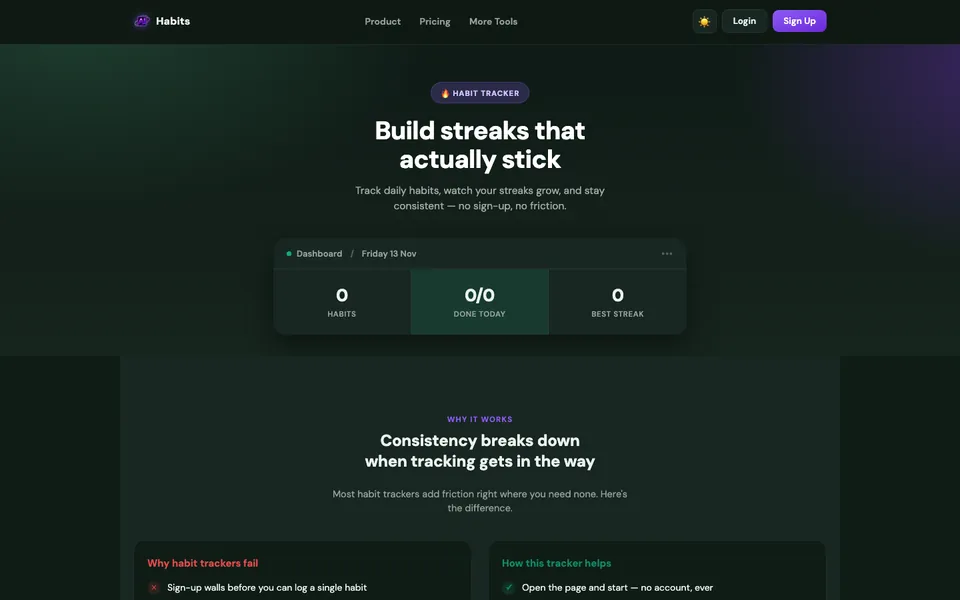
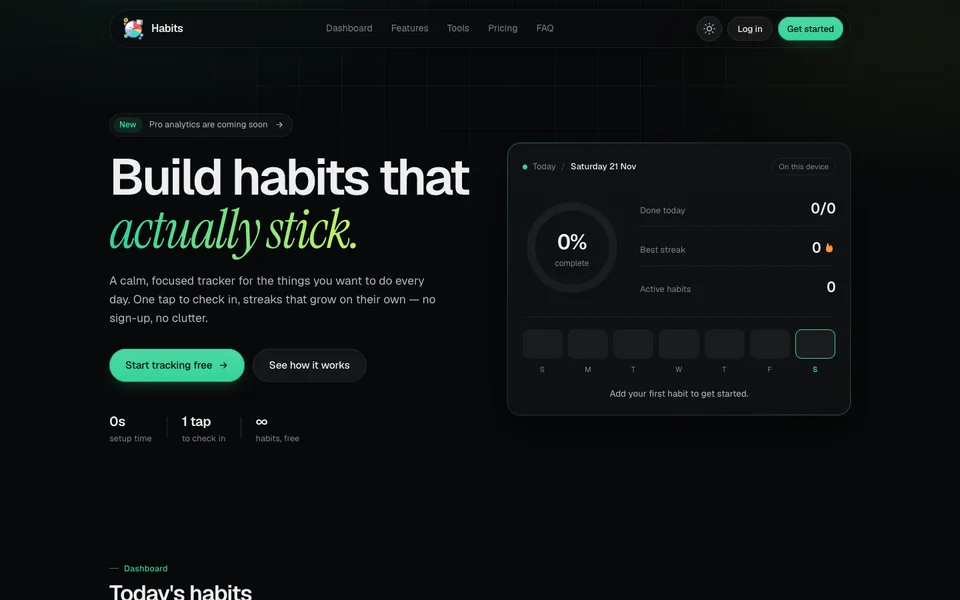
Always open dark; bolder light-mode text; add Habits to SaaS

diff --git a/index.html b/index.html
@@ -24,14 +24,13 @@
 <link rel="icon" href="favicon-32.png" sizes="32x32" type="image/png">
 <link rel="apple-touch-icon" href="apple-touch-icon.png">
 <script type="application/ld+json">{"@context":"https://schema.org","@type":"Person","name":"Md. Shahriar Nafiz Evan","alternateName":"Evan","url":"https://shahriarevan.com/","image":"https://shahriarevan.com/media/profile_card.jpg","jobTitle":"Full-Stack Developer","alumniOf":{"@type":"CollegeOrUniversity","name":"INTI International University"},"knowsAbout":["Full-stack web development","Next.js","Node.js","React","Firebase","MongoDB","OpenAI API","SaaS","E-commerce"],"sameAs":["https://www.linkedin.com/in/tech-evan-b374382b6/"]}</script>
-<script>try{if(localStorage.getItem("mode")=="light")document.documentElement.dataset.mode="light"}catch(e){}</script>
 <link rel="preconnect" href="https://fonts.googleapis.com"><link rel="preconnect" href="https://fonts.gstatic.com" crossorigin>
 <link href="https://fonts.googleapis.com/css2?family=Archivo:wdth,wght@62..125,400..900&family=JetBrains+Mono:wght@400;500&family=Manrope:wght@400;500;600;700&display=swap" rel="stylesheet">
 <link rel="stylesheet" href="https://cdnjs.cloudflare.com/ajax/libs/font-awesome/6.5.0/css/all.min.css">
 <style>
 :root{--bg:#060608;--tx:#eeebe6;--mu:#97919d;--dim:#5f5a66;--ac:#ef4444;--ac2:#a78bfa;--ok:#3ddc84;--ln:rgba(255,255,255,.09);--ln2:rgba(255,255,255,.18);--card:rgba(17,15,21,.66);
  --disp:"Archivo",system-ui,sans-serif;--mono:"JetBrains Mono",ui-monospace,monospace;--ease:cubic-bezier(.2,.75,.2,1);--io:cubic-bezier(.77,0,.18,1)}
-[data-mode=light]{--bg:#f3f1ed;--tx:#141218;--mu:#5b5662;--dim:#8b8691;--ln:rgba(20,18,24,.1);--ln2:rgba(20,18,24,.2);--card:rgba(255,255,255,.74)}
+[data-mode=light]{--bg:#f3f1ed;--tx:#0d0c10;--mu:#1f1c24;--dim:#3d3944;--ln:rgba(20,18,24,.1);--ln2:rgba(20,18,24,.2);--card:rgba(255,255,255,.74)}
 /* hero, top nav and the photo badge always sit on the dark film */
 #pre,#home,nav:not(.sc),.pc .bdg{--bg:#060608;--tx:#eeebe6;--mu:#b9b3be;--dim:#8f8a94;--ln:rgba(255,255,255,.1);--ln2:rgba(255,255,255,.22);color:var(--tx)}
 [data-mode=light] nav:not(.sc) .pill{background:rgba(255,255,255,.03)}
@@ -68,7 +67,8 @@ body:after{content:"";position:fixed;inset:-50%;z-index:70;pointer-events:none;o
 [data-mode=light] body:after{opacity:.045}
 [data-mode=light] nav.sc{background:rgba(243,241,237,.72)}
 [data-mode=light] #menu{background:rgba(243,241,237,.97)}
-[data-mode=light] h2 em{-webkit-text-stroke-color:rgba(20,18,24,.7)}
+[data-mode=light] h2 em{-webkit-text-stroke:2px #0d0c10}
+[data-mode=light] section p,[data-mode=light] section li,[data-mode=light] .sub,[data-mode=light] .lbl,[data-mode=light] .chip,[data-mode=light] .tags span{font-weight:600}
 [data-mode=light] .giant{-webkit-text-stroke-color:rgba(20,18,24,.14)}
 [data-mode=light] .name{background-image:linear-gradient(180deg,#141218 30%,#bdb8c2)}
 [data-mode=light] .card:before{background:radial-gradient(420px circle at var(--mx,50%) var(--my,50%),rgba(20,18,24,.05),transparent 60%)}
@@ -341,7 +341,7 @@ a:focus-visible,button:focus-visible,input:focus-visible,textarea:focus-visible{
   </div>
   <div class="h-bot fade" style="--d:1100ms">
    <div class="scr mono"><i></i>Scroll to scrub timeline<span id="fl" aria-live="polite"><i><b></b></i><span id="flt">Loading film 0%</span></span></div>
-   <div class="h-stats mono"><div><b>19+</b>Projects</div><div><b>6+</b>SaaS products</div><div><b>4+</b>Years coding</div></div>
+   <div class="h-stats mono"><div><b>19+</b>Projects</div><div><b>7+</b>SaaS products</div><div><b>4+</b>Years coding</div></div>
   </div>
  </div>
 </section>
@@ -366,7 +366,7 @@ a:focus-visible,button:focus-visible,input:focus-visible,textarea:focus-visible{
   </div>
   <div class="cnt rv" style="--d:300ms">
    <div><b data-n="19">0</b><b><i>+</i></b><span class="mono">Projects built</span></div>
-   <div><b data-n="6">0</b><b><i>+</i></b><span class="mono">SaaS products</span></div>
+   <div><b data-n="7">0</b><b><i>+</i></b><span class="mono">SaaS products</span></div>
    <div><b data-n="4">0</b><b><i>+</i></b><span class="mono">Years coding</span></div>
   </div>
   <div class="now rv" style="--d:200ms"><div class="now-h mono"><span><i class="dot"></i>Now</span><span style="color:var(--dim)">Updated Nov 2026</span></div>
@@ -449,9 +449,9 @@ C("Utility","list-check","To-Do App","Elegant task management application with l
 C("Tool","calculator","Calculator","Modern calculator with advanced operations, memory functions, and keyboard support, with a clean, intuitive interface and smooth animations.",["HTML","CSS","JS"],0,[L("Live Demo","https://shahriar-evan.github.io/Calculator-App/",1,0,1),L("Code")])],
 saas:[C("SaaS","pen-nib","WritexNova","AI writing platform with Humanizer, AI Detector, Paraphraser, Grammar Checker, Summarizer, Article Rewriter, AI Translator, Citation Generator and PDF Chat, with multi-model support.",["Node.js","Firebase","OpenAI","Lemon Squeezy"],["check-circle|Live product","shield-halved|AI Humanizer","toolbox|10+ AI tools"],[L("Visit","https://writexnova.com",1,0,1),L("Case Study","writexnova-casestudy.html",0),L("Code")]),
 C("SaaS","wand-magic-sparkles","Promptly","The complete AI workspace: write, design and research with one prompt. Chat with GPT-5, Claude Sonnet 4.5 and Gemini 2.5, generate images with Nano Banana, and turn one line into blog posts, research briefs and pitch decks.",["Next.js","MongoDB","OpenAI","Lemon Squeezy"],["check-circle|Live product","layer-group|Multi-model chat","image|AI images"],[L("Visit","https://aixnova.vercel.app",1,0,1),L("Case Study","aixnova-casestudy.html",0),L("Code")]),
-C("SaaS","tv","LiveSports","Live sports & TV streaming: football, cricket, NBA, NHL, UFC and motorsport with live scores, plus 42+ TV channels and a TV Mode that flips through channels like a real TV. Categories, highlights, favorites and a Go Pro plan with no ads.",["Node.js","Express","HLS.js","Vercel"],["tower-broadcast|Live TV & sports","satellite-dish|42+ TV channels","crown|Go Pro plan"],[L("Visit","https://streamflix-orpin.vercel.app/",1,0,1),L("Code")]),
-C("SaaS","film","Anime Maker","AI anime studio: Text → Anime Image in 10 styles (Studio Ghibli, Makoto Shinkai, Cyberpunk, Chibi, Retro 90s and more), Photo → Anime that keeps your face, an Avatar Maker, and Free / Pro / Premium plans. Voice Studio, Anime Video and a 4K Upscaler are on the way.",["Next.js","React","Tailwind CSS","Vercel"],["check-circle|Live product","palette|10 anime styles","camera|Photo → Anime"],[L("Visit","https://anime-maker-three.vercel.app/",1,0,1),L("Code")])],
-saasMore:[C("Open Source","fire","Habit Tracker","Open-access habit tracker with streaks, a 7-day calendar view, focus timer, mood check-ins, dark mode and a SaaS-style landing page — no sign-up required.",["Node.js","Express","Firestore","Vanilla JS"],["check-circle|Live product","bolt|No login","chart-line|Streaks"],[L("Visit","https://habit-tracker-psi-three.vercel.app",1,0,1),L("Code")])],
+C("SaaS","tv","LiveSports","Live sports & TV streaming: football, cricket, NBA, NHL, UFC and motorsport with live scores, plus 42+ TV channels and a TV Mode that flips through channels like a real TV. Categories, highlights, favorites and a Go Pro plan with no ads.",["Node.js","Express","HLS.js","Vercel"],["tower-broadcast|Live TV & sports","satellite-dish|42+ TV channels","crown|Go Pro plan"],[L("Visit","https://streamflix-orpin.vercel.app/",1,0,1),L("Code")])],
+saasMore:[C("SaaS","film","Anime Maker","AI anime studio: Text → Anime Image in 10 styles (Studio Ghibli, Makoto Shinkai, Cyberpunk, Chibi, Retro 90s and more), Photo → Anime that keeps your face, an Avatar Maker, and Free / Pro / Premium plans. Voice Studio, Anime Video and a 4K Upscaler are on the way.",["Next.js","React","Tailwind CSS","Vercel"],["check-circle|Live product","palette|10 anime styles","camera|Photo → Anime"],[L("Visit","https://anime-maker-three.vercel.app/",1,0,1),L("Code")]),
+C("SaaS","seedling","Habits","A calm, focused habit tracker: one-tap check-ins, streaks that update instantly, a 7-day history and a live completion ring, plus focus timer, mood check-in and quick notes. No account needed, with Free, Plus and Pro plans.",["Node.js","Express","Firestore","Vanilla JS"],["check-circle|Live product","bolt|No sign-up","fire|Streaks & 7-day history"],[L("Visit","https://habit-tracker-psi-three.vercel.app",1,0,1),L("Code")])],
 client:[C("Client","shirt","Kyvro — কাইভ্রো","Fashion e-commerce platform for Bangladesh: a storefront with BDT pricing, bKash, Nagad and cash on delivery, a reseller platform where anyone can open their own shop, an AI help chat, and an admin portal with four roles.",["React","Vite","Tailwind CSS","Firebase","Vercel"],["check-circle|Live store","store|Reseller shops","robot|AI help chat"],[L("Visit","https://kyvro.store",1,0,1),L("Case Study","kyvro-casestudy.html",0),L("Code")]),
 C("Client","plane-departure","AirTicketHotel","Travel booking comparison site: search flights, hotels & homes, cars and airport transfers, one-way or round-trip, with a Flight + Hotel bundle, deals, trip ideas and popular routes. Live search through Travelpayouts is the next step.",["Next.js","React","Tailwind CSS"],["check-circle|Live site","plane|Flights · Hotels · Cars","layer-group|Bundle & save"],[L("Visit","https://airtickethotel.vercel.app/",1,0,1),L("Code")]),
 C("Client","scale-balanced","Tally","International price comparison: one search shows what Amazon, AliExpress, Daraz, Shopee and Lazada charge for the same product, adds delivery, and puts the cheapest real total first. 6 countries, 6 currencies, no account needed, with an admin panel and affiliate links.",["Next.js","React","Tailwind CSS","Vercel"],["globe|6 countries · 6 stores","truck|Delivery included","coins|6 currencies"],[L("Visit","https://tally-shahriar-evans-projects.vercel.app",1,0,1),L("Case Study","tally-casestudy.html",0),L("Code")]),
@@ -460,11 +460,11 @@ games:[C("Game","gamepad","Snake Game","Modern Snake game built with JavaScript 
 C("Puzzle","clone","Memory Match","Card-flipping memory game with 3 difficulty levels, 3D flip animations, a move counter and timer, and best scores saved on your device.",["JavaScript","CSS 3D","LocalStorage"],0,[L("Play","games/memory/",1),L("Code")]),
 C("Strategy","robot","Tic-Tac-Toe AI","Play against an unbeatable minimax AI, a relaxed easy mode, or a friend on the same screen — with a live scoreboard and winning-line highlights.",["JavaScript","Minimax AI","CSS"],0,[L("Play","games/tictactoe/",1),L("Code")]),
 C("Arcade","bolt","Neon Dodge","Fast canvas arcade game: dodge falling neon blocks, grab orbs for bonus points and survive as the speed ramps up. Keyboard, mouse and touch controls.",["Canvas API","JavaScript","Game Loop"],0,[L("Play","games/dodge/",1),L("Code")])],
-exp:[["2024 — Present","Indie SaaS Developer","Self-employed · Solo founder",["Built and deployed 6 SaaS products (WritexNova, Promptly, LiveSports, Anime Maker, Tally, Kyvro) from zero to production — solo","Integrated payments (Stripe, Lemon Squeezy), auth (Firebase, Google OAuth, JWT) and AI APIs (OpenAI, Gemini) into commercial products","Built full-stack apps with Next.js, Node.js, Express, MongoDB and Firebase — deployed on Vercel and Render","Designed admin dashboards, credit systems, referral programs and user management","Shipped to real users with real payments — continuously iterating on feedback"]],
+exp:[["2024 — Present","Indie SaaS Developer","Self-employed · Solo founder",["Built and deployed 7 SaaS products (WritexNova, Promptly, LiveSports, Anime Maker, Habits, Tally, Kyvro) from zero to production — solo","Integrated payments (Stripe, Lemon Squeezy), auth (Firebase, Google OAuth, JWT) and AI APIs (OpenAI, Gemini) into commercial products","Built full-stack apps with Next.js, Node.js, Express, MongoDB and Firebase — deployed on Vercel and Render","Designed admin dashboards, credit systems, referral programs and user management","Shipped to real users with real payments — continuously iterating on feedback"]],
 ["2024 — Present","Frontend Developer","Personal & open-source projects",["Built responsive web apps and tools with HTML, CSS and JavaScript, focused on clean UI and great UX","Developed a Weather App, To-Do App, Calculator, Notes App and a Firebase Auth system","Learned Git, GitHub and version control through real project management","Explored cybersecurity fundamentals, SEO and responsive design best practices"]],
 ["Ongoing","Bachelor of Computer Science","INTI International University, Malaysia",["Focus on web development, software engineering and modern technologies","Member of university technology clubs and communities","Taking part in coding challenges and hackathons"],"education"]]
 };
-var SHOT={"WritexNova":"writexnova","Promptly":"aixnova","LiveSports":"streamworld","Habit Tracker":"habit","Anime Maker":"animemaker","Kyvro — কাইভ্রো":"kyvro","Global Visa Connect":"visa","AirTicketHotel":"airtickethotel","Tally":"tally","Portfolio Website":"portfolio","Weather App":"weather","To-Do App":"todo","Calculator":"calc","Firebase Auth App":"auth","Notes App":"notes","Snake Game":"snake","Memory Match":"memory","Tic-Tac-Toe AI":"tictactoe","Neon Dodge":"dodge"};
+var SHOT={"WritexNova":"writexnova","Promptly":"aixnova","LiveSports":"streamworld","Habits":"habit","Anime Maker":"animemaker","Kyvro — কাইভ্রো":"kyvro","Global Visa Connect":"visa","AirTicketHotel":"airtickethotel","Tally":"tally","Portfolio Website":"portfolio","Weather App":"weather","To-Do App":"todo","Calculator":"calc","Firebase Auth App":"auth","Notes App":"notes","Snake Game":"snake","Memory Match":"memory","Tic-Tac-Toe AI":"tictactoe","Neon Dodge":"dodge"};
 var PRE={saas:"Product",client:"Client",projects:"Project",apps:"App",games:"Game"};
 function pad(n){return n<10?"0"+n:""+n}
 function card(c,i,k,off){var sh=SHOT[c.t],go=c.b.filter(function(l){return l[2]&&l[1]!="#"})[0],h='<article class="card rv" style="--d:'+(i%3)*90+'ms">';

diff --git a/tally-casestudy.html b/tally-casestudy.html
@@ -14,14 +14,13 @@
 <meta property="og:image" content="https://shahriarevan.com/media/shots/tally.webp">
 <meta name="twitter:card" content="summary_large_image">
 <link rel="icon" href="favicon.svg" type="image/svg+xml"><link rel="icon" href="favicon-32.png" sizes="32x32" type="image/png"><link rel="apple-touch-icon" href="apple-touch-icon.png">
-<script>try{if(localStorage.getItem("mode")=="light")document.documentElement.dataset.mode="light"}catch(e){}</script>
 <link rel="preconnect" href="https://fonts.googleapis.com"><link rel="preconnect" href="https://fonts.gstatic.com" crossorigin>
 <link href="https://fonts.googleapis.com/css2?family=Archivo:wdth,wght@62..125,400..900&family=JetBrains+Mono:wght@400;500&family=Manrope:wght@400;500;600;700&display=swap" rel="stylesheet">
 <link rel="stylesheet" href="https://cdnjs.cloudflare.com/ajax/libs/font-awesome/6.5.0/css/all.min.css">
 <style>
 :root{--bg:#060608;--tx:#eeebe6;--mu:#97919d;--dim:#5f5a66;--ac:#ef4444;--k:#f0634b;--ok:#5cc48c;--okt:rgba(92,196,140,.12);--ln:rgba(255,255,255,.09);--ln2:rgba(255,255,255,.18);--card:rgba(17,15,21,.66);
  --disp:"Archivo",system-ui,sans-serif;--mono:"JetBrains Mono",ui-monospace,monospace;--ease:cubic-bezier(.2,.75,.2,1)}
-[data-mode=light]{--bg:#f3f1ed;--tx:#141218;--mu:#5b5662;--dim:#8b8691;--k:#d63f27;--ok:#1e7a4c;--okt:#e3f0e8;--ln:rgba(20,18,24,.1);--ln2:rgba(20,18,24,.2);--card:rgba(255,255,255,.74)}
+[data-mode=light]{--bg:#f3f1ed;--tx:#141218;--mu:#1f1c24;--dim:#3d3944;--k:#d63f27;--ok:#1e7a4c;--okt:#e3f0e8;--ln:rgba(20,18,24,.1);--ln2:rgba(20,18,24,.2);--card:rgba(255,255,255,.74)}
 *{box-sizing:border-box;margin:0;padding:0}
 html{scroll-behavior:smooth}
 body{background:radial-gradient(ellipse 70% 50% at 80% 0%,rgba(240,99,75,.11),transparent 70%),radial-gradient(ellipse 60% 40% at 0% 30%,rgba(92,196,140,.07),transparent 70%),var(--bg);background-attachment:fixed;color:var(--tx);font:16.5px/1.7 Manrope,system-ui,sans-serif;-webkit-font-smoothing:antialiased;overflow-x:hidden}

diff --git a/kyvro-casestudy.html b/kyvro-casestudy.html
@@ -14,14 +14,13 @@
 <meta property="og:image" content="https://shahriarevan.com/media/shots/kyvro.webp">
 <meta name="twitter:card" content="summary_large_image">
 <link rel="icon" href="favicon.svg" type="image/svg+xml"><link rel="icon" href="favicon-32.png" sizes="32x32" type="image/png"><link rel="apple-touch-icon" href="apple-touch-icon.png">
-<script>try{if(localStorage.getItem("mode")=="light")document.documentElement.dataset.mode="light"}catch(e){}</script>
 <link rel="preconnect" href="https://fonts.googleapis.com"><link rel="preconnect" href="https://fonts.gstatic.com" crossorigin>
 <link href="https://fonts.googleapis.com/css2?family=Archivo:wdth,wght@62..125,400..900&family=JetBrains+Mono:wght@400;500&family=Manrope:wght@400;500;600;700&family=Noto+Serif+Bengali:wght@500&display=swap" rel="stylesheet">
 <link rel="stylesheet" href="https://cdnjs.cloudflare.com/ajax/libs/font-awesome/6.5.0/css/all.min.css">
 <style>
 :root{--bg:#060608;--tx:#eeebe6;--mu:#97919d;--dim:#5f5a66;--ac:#ef4444;--ac2:#a78bfa;--gold:#d4af37;--ok:#3ddc84;--ln:rgba(255,255,255,.09);--ln2:rgba(255,255,255,.18);--card:rgba(17,15,21,.66);
  --disp:"Archivo",system-ui,sans-serif;--mono:"JetBrains Mono",ui-monospace,monospace;--ease:cubic-bezier(.2,.75,.2,1)}
-[data-mode=light]{--bg:#f3f1ed;--tx:#141218;--mu:#5b5662;--dim:#8b8691;--gold:#9a7a1c;--ln:rgba(20,18,24,.1);--ln2:rgba(20,18,24,.2);--card:rgba(255,255,255,.74)}
+[data-mode=light]{--bg:#f3f1ed;--tx:#141218;--mu:#1f1c24;--dim:#3d3944;--gold:#9a7a1c;--ln:rgba(20,18,24,.1);--ln2:rgba(20,18,24,.2);--card:rgba(255,255,255,.74)}
 *{box-sizing:border-box;margin:0;padding:0}
 html{scroll-behavior:smooth}
 body{background:radial-gradient(ellipse 70% 50% at 80% 0%,rgba(212,175,55,.12),transparent 70%),radial-gradient(ellipse 60% 40% at 0% 30%,rgba(167,139,250,.08),transparent 70%),var(--bg);background-attachment:fixed;color:var(--tx);font:16.5px/1.7 Manrope,system-ui,sans-serif;-webkit-font-smoothing:antialiased;overflow-x:hidden}
